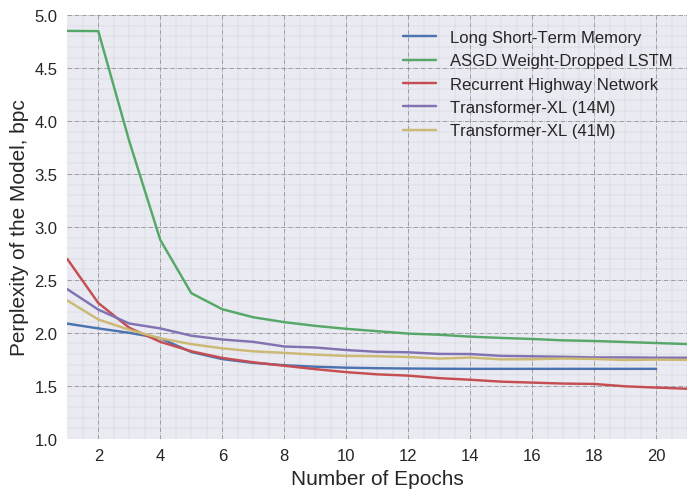
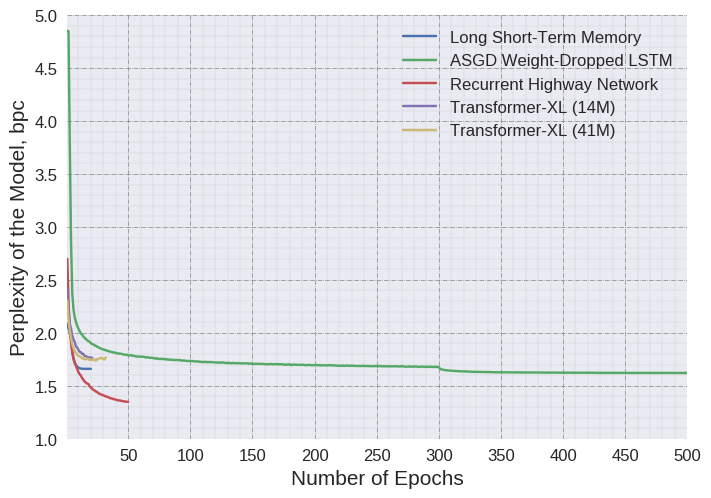
Up

diff --git a/plot_spk_span.py b/plot_spk_span.py
@@ -85,7 +85,7 @@ with plt.style.context(('seaborn')):
     plt.minorticks_on()
     plt.grid(which='major', linestyle='-.', linewidth='0.5', color='grey')
     plt.grid(which='minor', linestyle=':', linewidth='0.2', color='grey')
-    plt.xlim(1, len(y4))
+    plt.xlim(1, len(y2))
     plt.ylim(1, 5)
     plt.xlabel('Number of Epochs', fontsize=15)
     plt.ylabel('Perplexity of the Model, bpc', fontsize=15)
